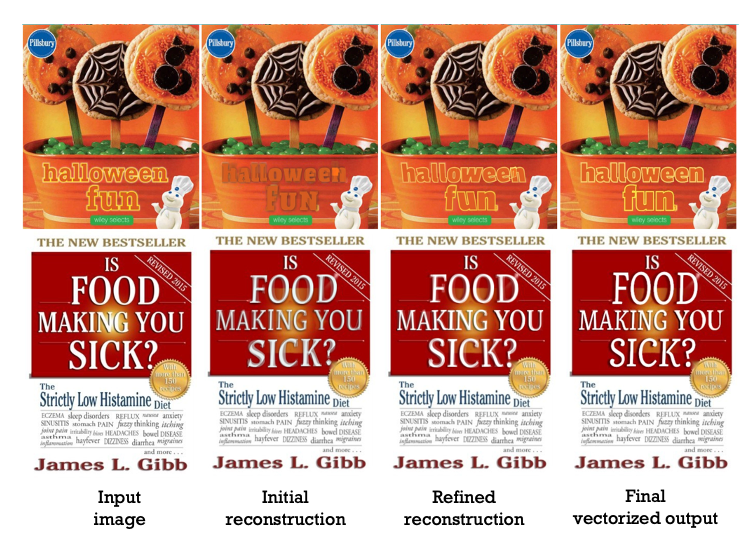
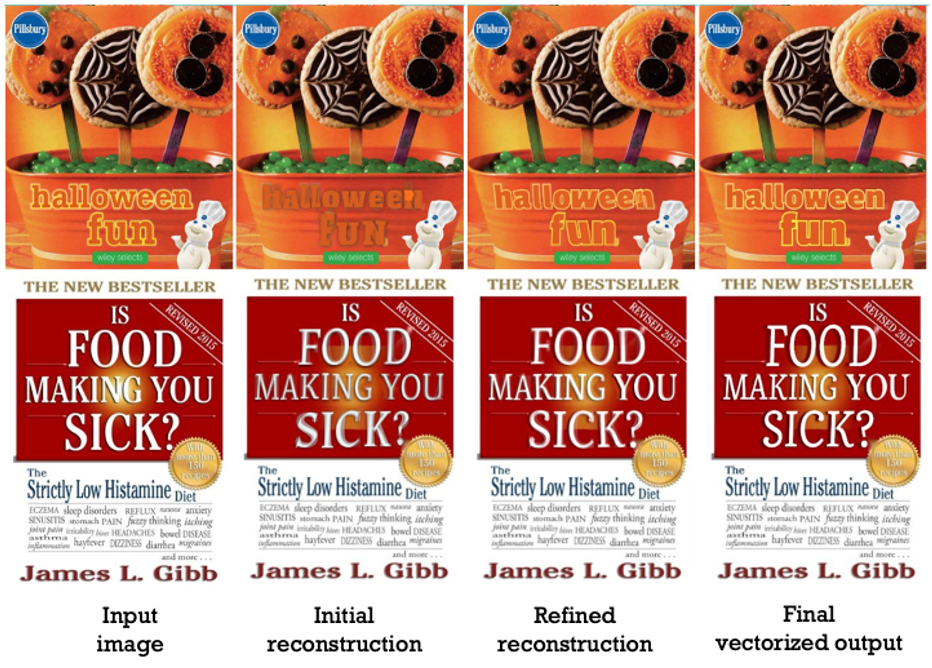
fix layouts of images

diff --git a/docs/index.md b/docs/index.md
@@ -22,21 +22,21 @@ Editing raster text is a promising but challenging task. We propose to apply tex
 
 ### Optimization via differentiable text rendering
 <div align = 'center'>
-<img src = "https://raw.githubusercontent.com/CyberAgentAILab/derendering-text/master/example/sample.jpg" title = "inp" height = "200" >
-<img src = "https://raw.githubusercontent.com/CyberAgentAILab/derendering-text/master/example/opt.gif" title = "opt" height = "200" >
+<img src = "https://raw.githubusercontent.com/CyberAgentAILab/derendering-text/master/example/sample.jpg" title = "inp" height = "350" >
+<img src = "https://raw.githubusercontent.com/CyberAgentAILab/derendering-text/master/example/opt.gif" title = "opt" height = "350" >
 </div>
 
 ### Text edit Demo
 <div align = 'center'>
-<img src = "https://raw.githubusercontent.com/CyberAgentAILab/derendering-text/master/example/edit0.gif" title = "edit0" height = "200" >
-<img src = "https://raw.githubusercontent.com/CyberAgentAILab/derendering-text/master/example/edit1.gif" title = "edit1" height = "200" >
+<img src = "https://raw.githubusercontent.com/CyberAgentAILab/derendering-text/master/example/edit0.gif" title = "edit0" height = "300" >
+<img src = "https://raw.githubusercontent.com/CyberAgentAILab/derendering-text/master/example/edit1.gif" title = "edit1" height = "300" >
 </div>
 
 ### Results1
-<img src = "https://raw.githubusercontent.com/CyberAgentAILab/derendering-text/master/example/rec0.png" title = "edit0" height = "200" >
+<img src = "https://raw.githubusercontent.com/CyberAgentAILab/derendering-text/master/example/rec0.png" title = "edit0">
 
 ### Results2
-<img src = "https://raw.githubusercontent.com/CyberAgentAILab/derendering-text/master/example/rec1.png" title = "edit1" height = "200" >
+<img src = "https://raw.githubusercontent.com/CyberAgentAILab/derendering-text/master/example/rec1.png" title = "edit1">
 
 ### Citation
 
